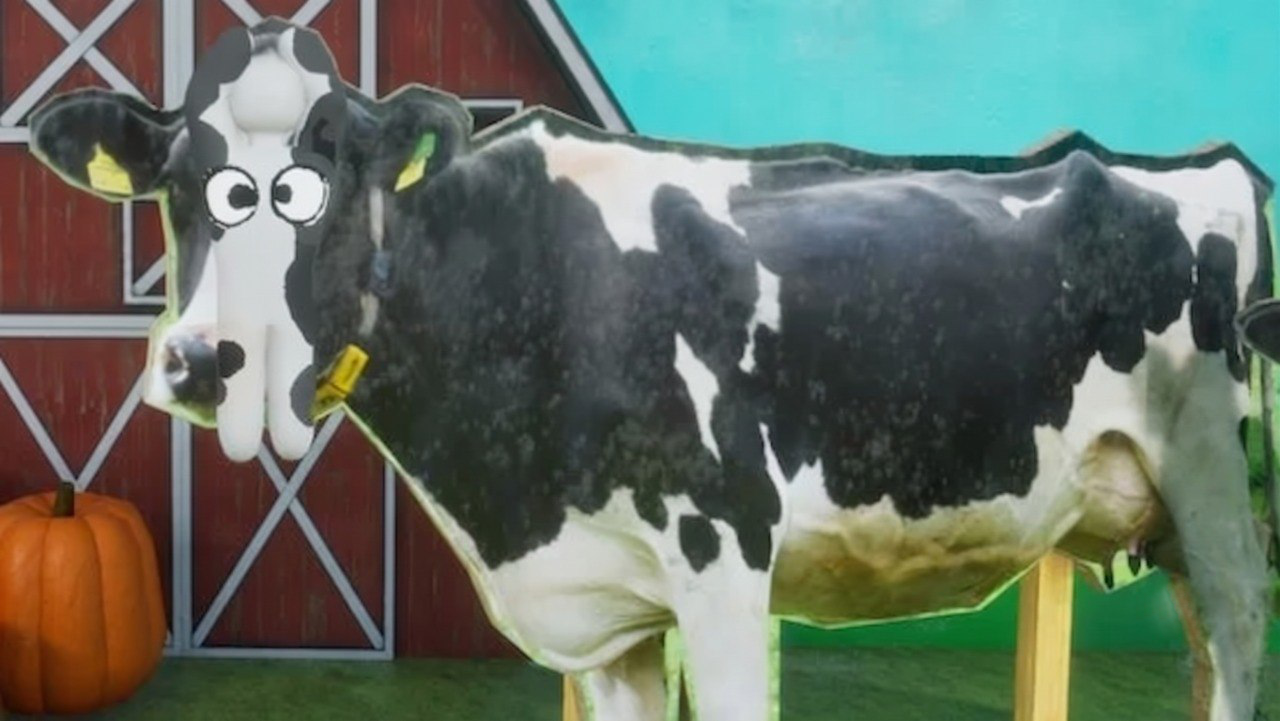
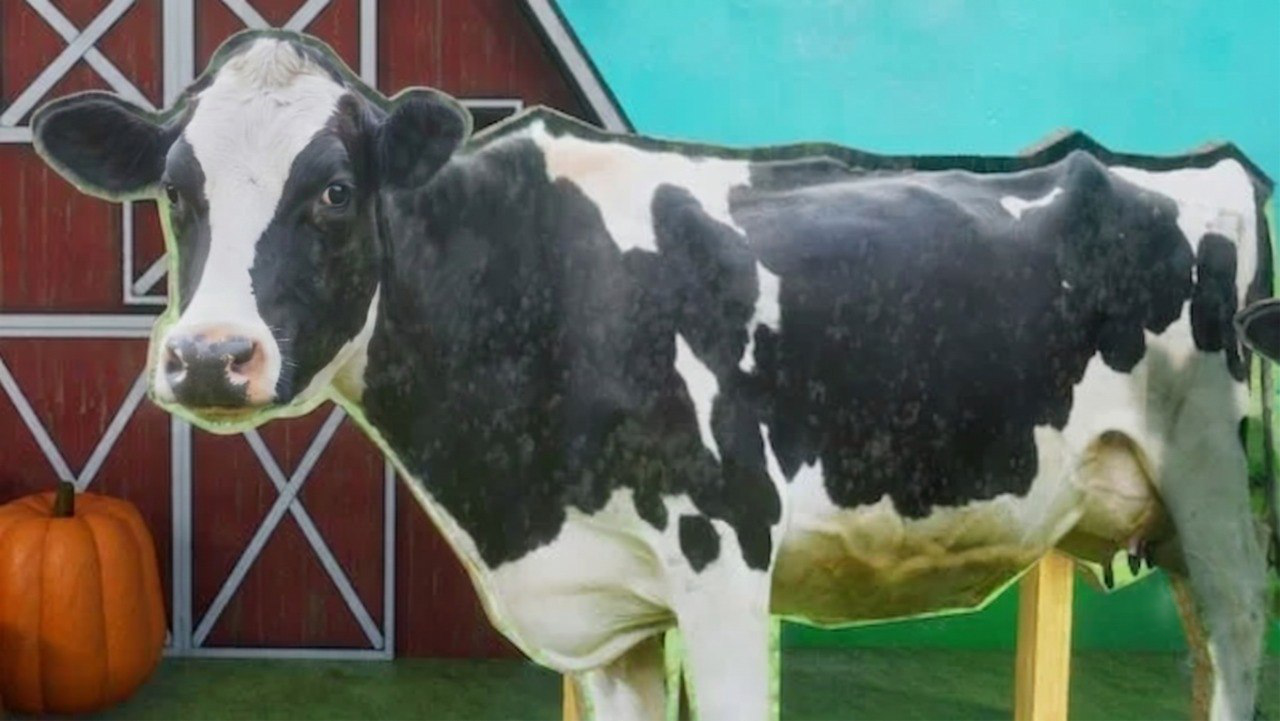
feat(stream-preview): normal cow placeholder, hidden frame when heatmap on

Changed region(s): [[0.0, 0.0, 0.375, 0.6408], [0.125, 0.3662, 0.1562, 0.4272], [0.9062, 0.8239, 0.9375, 0.8544]]

diff --git a/client/src/kick/StreamPreview.tsx b/client/src/kick/StreamPreview.tsx
@@ -6,8 +6,9 @@ import { useClickHeatmap } from './useClickHeatmap';
 
 /** Kick's "Stream Preview" panel. No real stream, so the body is filled by a
  *  banner: the offline banner normally, swapped for the live stream frame while
- *  the gym is running. While live, a 🔥 toggle overlays a click-density heatmap
- *  (mock clicks, plus any real click on the preview) on top of it. */
+ *  the gym is running. Turning on the 🔥 heatmap hides that frame behind a
+ *  stand-in and overlays a click-density heatmap (mock clicks, plus any real
+ *  click on the preview) on top. */
 export default function StreamPreview({ gymOn }: { gymOn: boolean }) {
   const [heatmapOn, setHeatmapOn] = useState(false);
   const { points, addClick } = useClickHeatmap(gymOn);
@@ -45,7 +46,13 @@ export default function StreamPreview({ gymOn }: { gymOn: boolean }) {
           exactly 16:9 and a normal-flow element would overflow across the header. */}
       <div className="absolute inset-0" onClick={handleClick}>
         <img
-          src={gymOn ? '/live-stream.png' : '/offline-banner.webp'}
+          src={
+            gymOn
+              ? heatmapOn
+                ? '/live-stream-hidden.png'
+                : '/live-stream.png'
+              : '/offline-banner.webp'
+          }
           alt=""
           className="absolute inset-0 size-full object-cover"
         />
